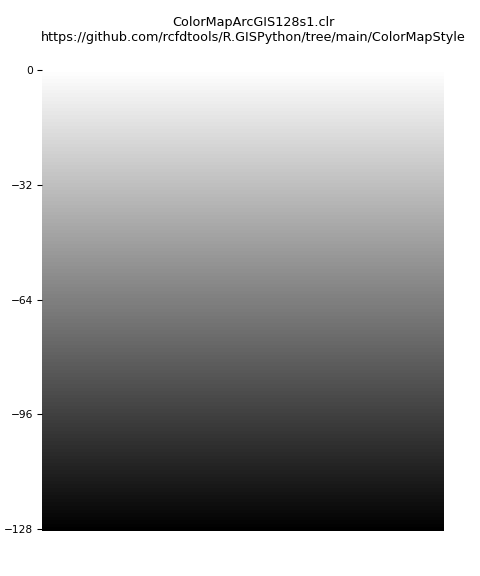
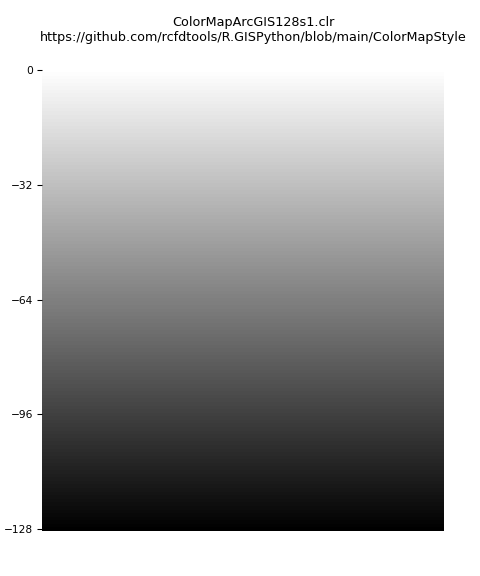
General update...

Changed region(s): [[0.0938, 0.0312, 0.9688, 0.0938]]

diff --git a/ColorMapStyle/ColorMapStyle.py b/ColorMapStyle/ColorMapStyle.py
@@ -44,8 +44,8 @@ def printlog(txtPrint, onScreen=True):
     fileLog.write(txtPrint + '\n')
 
 # Variables
-baseRGBColors = cmsv.ColorMap11  # ✅✅✅ User can change ✅✅✅ - Style values from ColorMapStyleValue.py
-styleNumber = 11  # ✅✅✅ User can change ✅✅✅
+baseRGBColors = cmsv.ColorMap1  # ✅✅✅ User can change ✅✅✅ - Style values from ColorMapStyleValue.py
+styleNumber = 1  # ✅✅✅ User can change ✅✅✅
 numColor = 256  # ✅✅✅ User can change ✅✅✅
 filePath = r'D:/R.GISPython/ColorMapStyle'  # r'.' for relative path
 fileName = 'ColorMapArcGIS'+str(numColor)+'s'+str(styleNumber)

diff --git a/ColorMapStyle/Output/ColorMapArcGIS128s1.md b/ColorMapStyle/Output/ColorMapArcGIS128s1.md
@@ -1,3 +1,37 @@
+## Color ramp style generator - Reference style # 1
+![ColorMapArcGIS128s1.png](https://github.com/rcfdtools/R.GISPython/blob/main/ColorMapStyle/Output/ColorMapArcGIS128s1.png)
+* Execution date & time: 2022-01-05 11:17:33.534781
+* Script compatibility: Python 3
+* Python version: 3.10.0 (tags/v3.10.0:b494f59, Oct  4 2021, 19:00:18) [MSC v.1929 64 bit (AMD64)]
+* Python path: ['D:\\R.GISPython\\ColorMapStyle', 'D:\\R.GISPython', 'D:\\R.GISPython.wiki', 'C:\\Python310\\python310.zip', 'C:\\Python310\\DLLs']
+* matplotlib version: 3.5.0
+* Repository: https://github.com/rcfdtools/R.GISPython/tree/main/ColorMapStyle
+* License and conditions: https://github.com/rcfdtools/R.GISPython/wiki/License
+* Credits: r.cfdtools@gmail.com
+
+### General parameters
+
+* Reference style #: 1
+* Colors: 128
+* Cuts: 1
+* Module operator: 0
+* Colors per cut: 128
+* Output file: D:/R.GISPython/ColorMapStyle/Output/ColorMapArcGIS128s1.clr
+* GitHub: https://github.com/rcfdtools/R.GISPython/blob/main/ColorMapStyle/Output/ColorMapArcGIS128s1.clr
+* GitHub sample: https://github.com/rcfdtools/R.GISPython/blob/main/ColorMapStyle/Output/ColorMapArcGIS128s1.png
+
+### Reference RGB with 2 color values
+
+| #    | R   | G   | B   |
+|---|---|---|---|
+| 0000 | 255 | 255 | 255 |
+| 0001 | 000 | 000 | 000 |
+
+
+### Generated RGB color values table
+
+| #    | R    | G   | B   | Cut |
+|---|---|---|---|---|
 | 0000 |  255 | 255 | 255 |
 | 0001 |  253 | 253 | 253 |
 | 0002 |  251 | 251 | 251 |
@@ -126,3 +160,8 @@
 | 0125 |  005 | 005 | 005 |
 | 0126 |  003 | 003 | 003 |
 | 0127 |  000 | 000 | 000 |
+### Matplotlib color style sample
+
+Python value conversion
+| #    | pyR   | pyG   | pyB   |
+|---|---|---|---|

diff --git a/ColorMapStyle/Output/ColorMapArcGIS256s1.md b/ColorMapStyle/Output/ColorMapArcGIS256s1.md
@@ -1,3 +1,37 @@
+## Color ramp style generator - Reference style # 1
+![ColorMapArcGIS256s1.png](https://github.com/rcfdtools/R.GISPython/blob/main/ColorMapStyle/Output/ColorMapArcGIS256s1.png)
+* Execution date & time: 2022-01-05 11:17:41.327475
+* Script compatibility: Python 3
+* Python version: 3.10.0 (tags/v3.10.0:b494f59, Oct  4 2021, 19:00:18) [MSC v.1929 64 bit (AMD64)]
+* Python path: ['D:\\R.GISPython\\ColorMapStyle', 'D:\\R.GISPython', 'D:\\R.GISPython.wiki', 'C:\\Python310\\python310.zip', 'C:\\Python310\\DLLs']
+* matplotlib version: 3.5.0
+* Repository: https://github.com/rcfdtools/R.GISPython/tree/main/ColorMapStyle
+* License and conditions: https://github.com/rcfdtools/R.GISPython/wiki/License
+* Credits: r.cfdtools@gmail.com
+
+### General parameters
+
+* Reference style #: 1
+* Colors: 256
+* Cuts: 1
+* Module operator: 0
+* Colors per cut: 256
+* Output file: D:/R.GISPython/ColorMapStyle/Output/ColorMapArcGIS256s1.clr
+* GitHub: https://github.com/rcfdtools/R.GISPython/blob/main/ColorMapStyle/Output/ColorMapArcGIS256s1.clr
+* GitHub sample: https://github.com/rcfdtools/R.GISPython/blob/main/ColorMapStyle/Output/ColorMapArcGIS256s1.png
+
+### Reference RGB with 2 color values
+
+| #    | R   | G   | B   |
+|---|---|---|---|
+| 0000 | 255 | 255 | 255 |
+| 0001 | 000 | 000 | 000 |
+
+
+### Generated RGB color values table
+
+| #    | R    | G   | B   | Cut |
+|---|---|---|---|---|
 | 0000 |  255 | 255 | 255 |
 | 0001 |  254 | 254 | 254 |
 | 0002 |  253 | 253 | 253 |
@@ -254,3 +288,8 @@
 | 0253 |  002 | 002 | 002 |
 | 0254 |  001 | 001 | 001 |
 | 0255 |  000 | 000 | 000 |
+### Matplotlib color style sample
+
+Python value conversion
+| #    | pyR   | pyG   | pyB   |
+|---|---|---|---|
